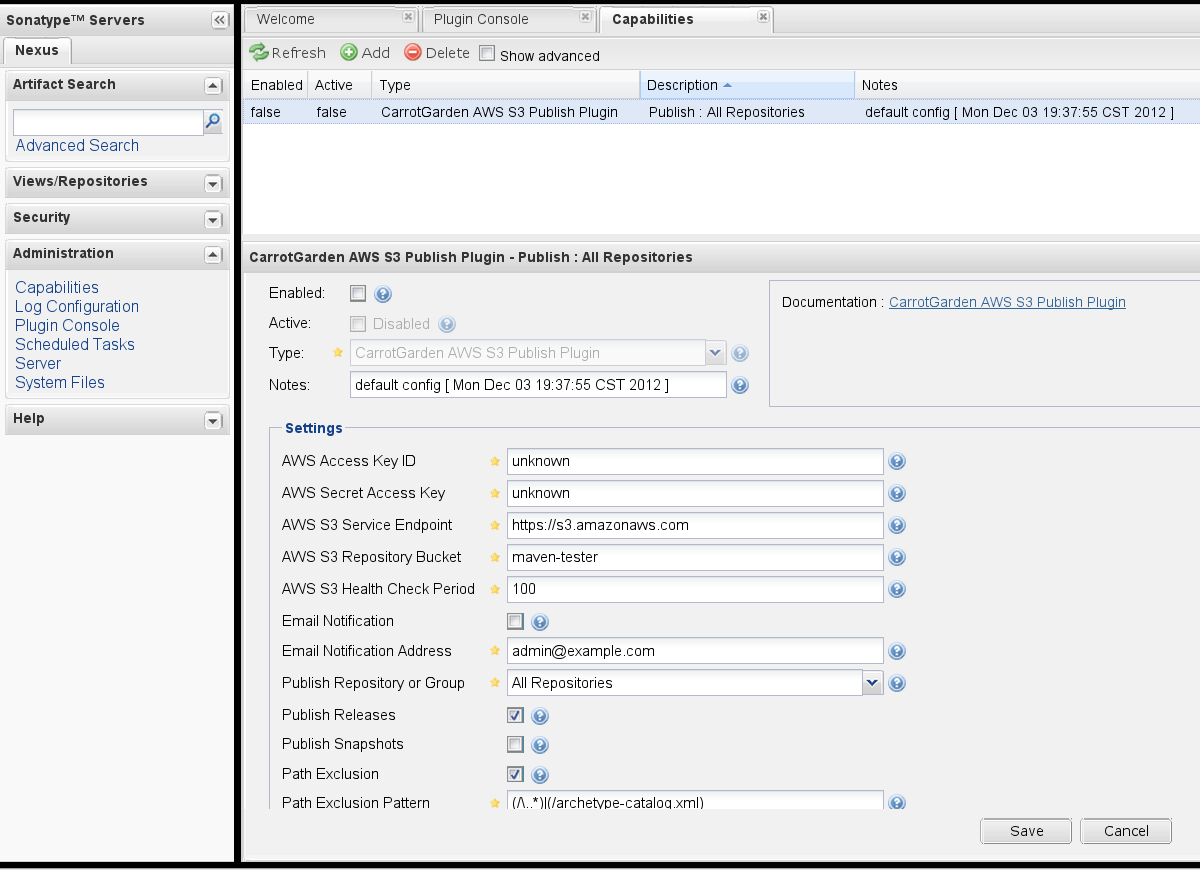
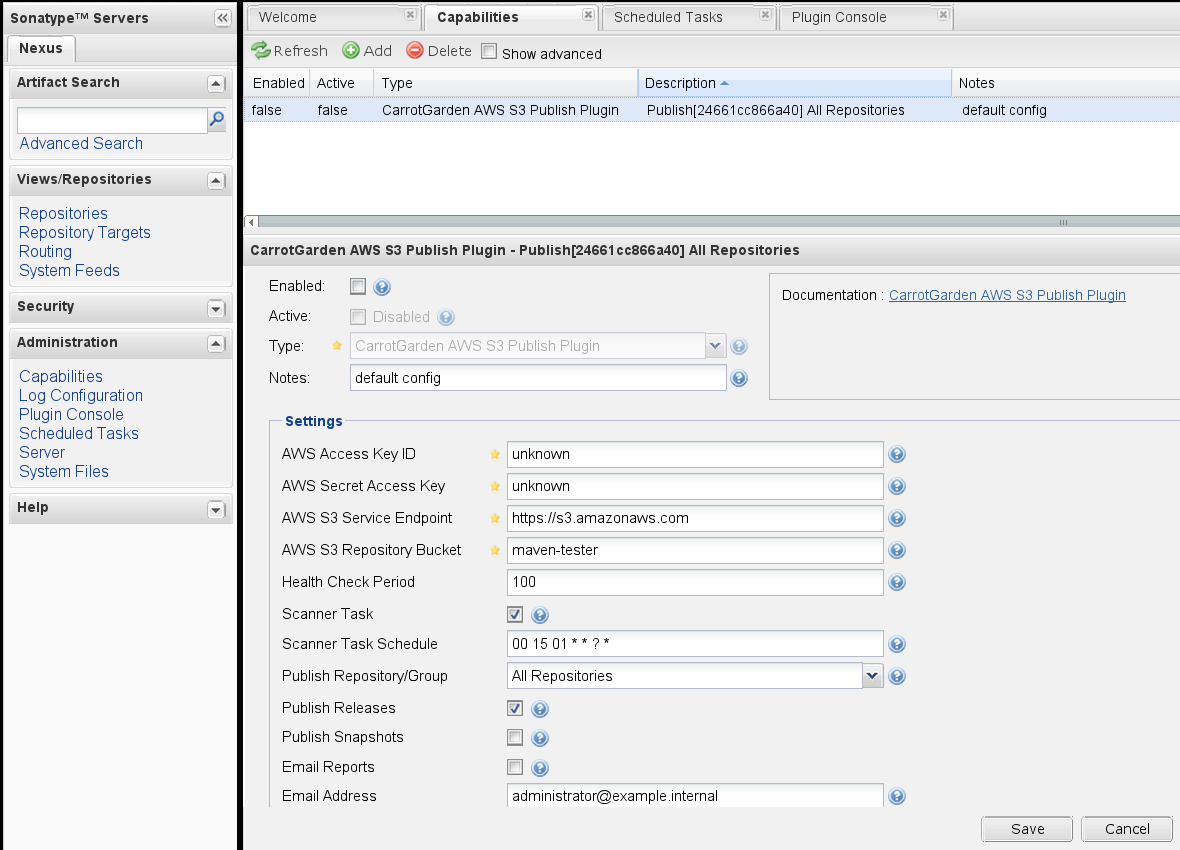
a

Changed region(s): [[0.0, 0.0, 1.0, 1.0], [0.6407, 0.3365, 0.9458, 0.3671], [0.7322, 0.9176, 0.7627, 0.9482]]

diff --git a/carrot-nexus-aws-s3-publish-plugin/src/main/java/com/carrotgarden/nexus/aws/s3/publish/amazon/AmazonFactory.java b/carrot-nexus-aws-s3-publish-plugin/src/main/java/com/carrotgarden/nexus/aws/s3/publish/amazon/AmazonFactory.java
@@ -1,3 +1,10 @@
+/**
+ * Copyright (C) 2010-2012 Andrei Pozolotin <Andrei.Pozolotin@gmail.com>
+ *
+ * All rights reserved. Licensed under the OSI BSD License.
+ *
+ * http://www.opensource.org/licenses/bsd-license.php
+ */
 package com.carrotgarden.nexus.aws.s3.publish.amazon;
 
 import com.carrotgarden.nexus.aws.s3.publish.config.ConfigEntry;

diff --git a/carrot-nexus-aws-s3-publish-plugin/src/main/java/com/carrotgarden/nexus/aws/s3/publish/amazon/AmazonModule.java b/carrot-nexus-aws-s3-publish-plugin/src/main/java/com/carrotgarden/nexus/aws/s3/publish/amazon/AmazonModule.java
@@ -1,3 +1,10 @@
+/**
+ * Copyright (C) 2010-2012 Andrei Pozolotin <Andrei.Pozolotin@gmail.com>
+ *
+ * All rights reserved. Licensed under the OSI BSD License.
+ *
+ * http://www.opensource.org/licenses/bsd-license.php
+ */
 package com.carrotgarden.nexus.aws.s3.publish.amazon;
 
 import javax.inject.Named;

diff --git a/carrot-nexus-aws-s3-publish-plugin/src/main/java/com/carrotgarden/nexus/aws/s3/publish/mailer/Report.java b/carrot-nexus-aws-s3-publish-plugin/src/main/java/com/carrotgarden/nexus/aws/s3/publish/mailer/Report.java
@@ -1,3 +1,10 @@
+/**
+ * Copyright (C) 2010-2012 Andrei Pozolotin <Andrei.Pozolotin@gmail.com>
+ *
+ * All rights reserved. Licensed under the OSI BSD License.
+ *
+ * http://www.opensource.org/licenses/bsd-license.php
+ */
 package com.carrotgarden.nexus.aws.s3.publish.mailer;
 
 import java.util.EnumSet;

diff --git a/carrot-nexus-aws-s3-publish-plugin/src/test/java/temp/AmazonConfig.java b/carrot-nexus-aws-s3-publish-plugin/src/test/java/temp/AmazonConfig.java
@@ -1,3 +1,10 @@
+/**
+ * Copyright (C) 2010-2012 Andrei Pozolotin <Andrei.Pozolotin@gmail.com>
+ *
+ * All rights reserved. Licensed under the OSI BSD License.
+ *
+ * http://www.opensource.org/licenses/bsd-license.php
+ */
 package temp;
 
 import com.amazonaws.auth.AWSCredentials;

diff --git a/carrot-nexus-aws-s3-publish-plugin/readme.md b/carrot-nexus-aws-s3-publish-plugin/readme.md
@@ -51,7 +51,7 @@ of the currently downloaded plug-in bundle;
 # nexus work folder
 NEXUS="/var/lib/nexus"
 # current plugin version
-VERSION="2.2.1-build001"
+VERSION="2.2.1-build002"
 #
 REPO="http://repo1.maven.org/maven2"
 GROUP="com/carrotgarden/nexus"
@@ -85,9 +85,8 @@ will be re-created again on nexus restart;
 
 * remember to select "Enabled" check box and do "Save" after you supplied your credentials
 * navigate and refresh : ```Nexus -> Views -> System Feeds -> Error and Warning Events```
-* verify state of "Active" check box and pay attention to message there, if any
-* click "Refresh" to see if "Active" state changed
 * reduce health check period to see changes sooner
+* enable plug-in status page and see what's there
 * grep through nexus.log
 
 example error message you will find in ```System Feeds``` for invalid aws s3 access key: 
@@ -101,9 +100,9 @@ S3 Extended Request ID: fMHxoVvODIa1DNqASSw4XPF9aBASw1Y+J8lHMxCgrYSvYJQ0LuU+WWow
 at com.amazonaws.http.AmazonHttpClient.handleErrorRespon..
 ``` 
 
-enable plugin and try to upload artifact via nexus gui;
-
-if you receive the following message, your amazon credentials are incorrect:
+enable plug-in and try to upload artifact via nexus gui; 
+if you receive the message similar to the following, 
+your amazon credentials are likely incorrect:
 
 ![upload error]
 (https://raw.github.com/carrot-garden/carrot-nexus/master/carrot-nexus-aws-s3-publish-plugin/doc/readme-02.png)
